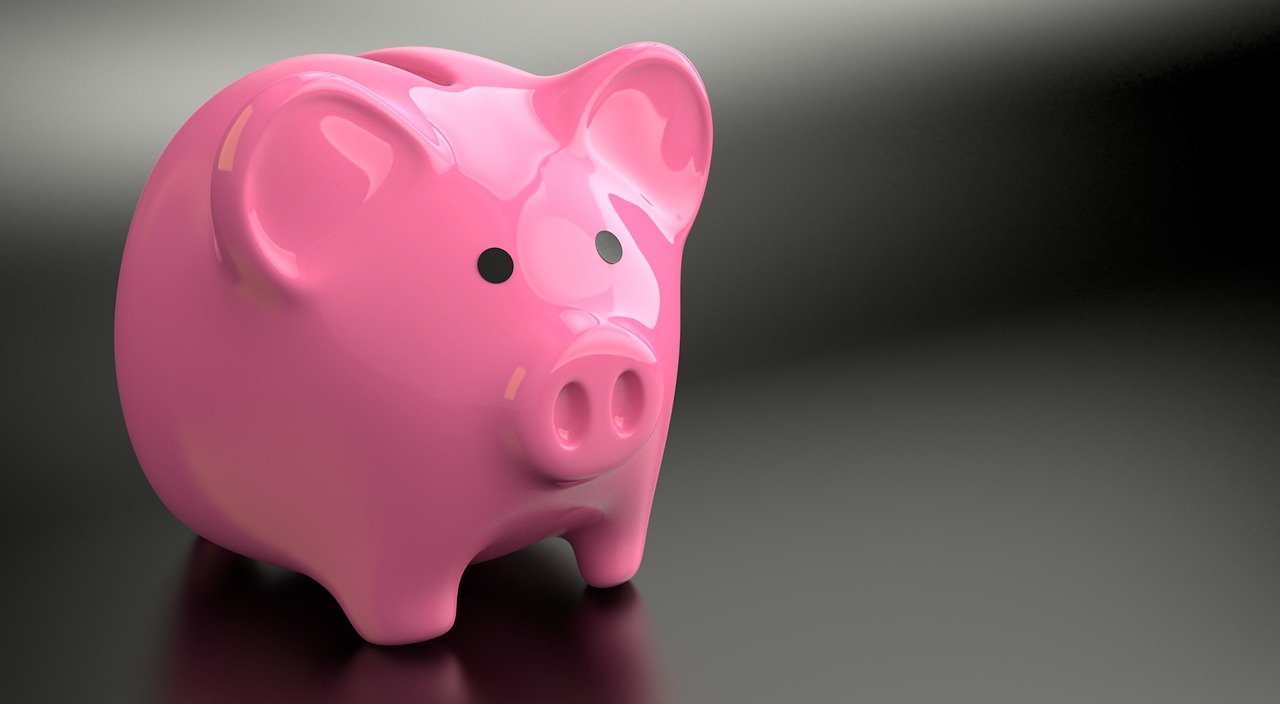
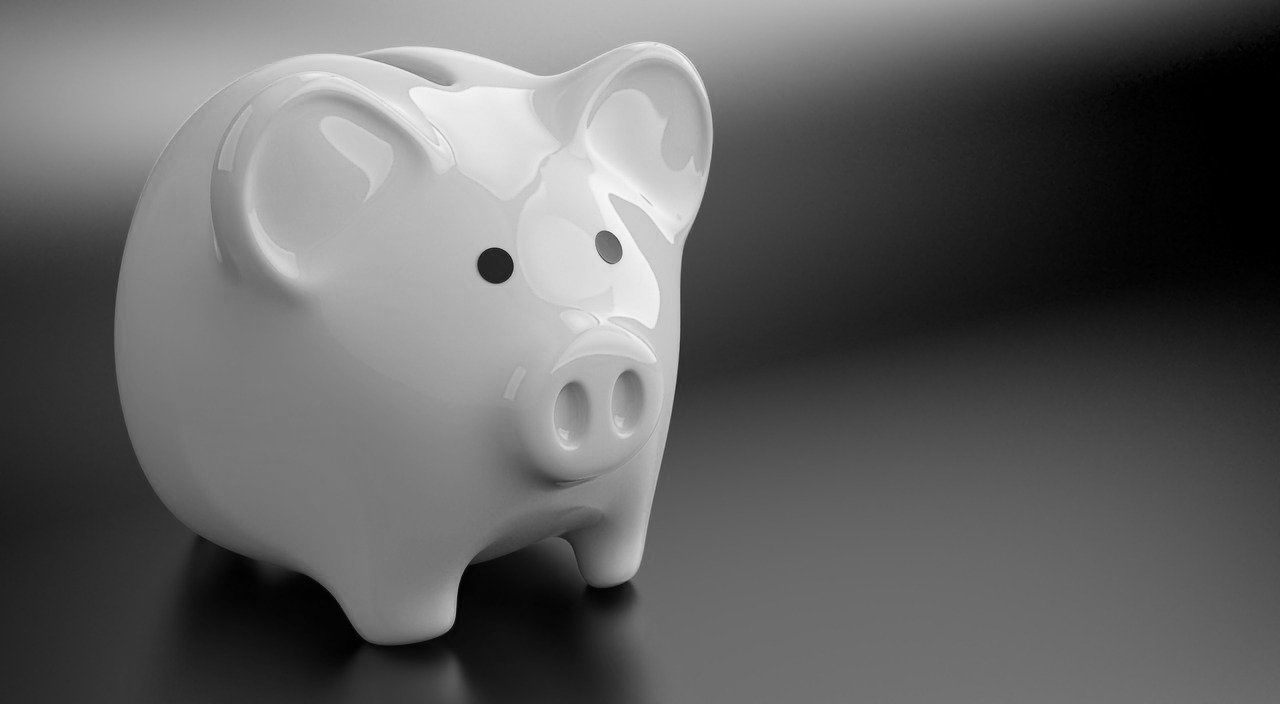
애니메이션 적용 및 사진변경

diff --git a/assets/scss/divide/main.scss b/assets/scss/divide/main.scss
@@ -17,7 +17,7 @@
                 align-items: center;
                 justify-content: center;
                 position: relative;
-                height: vw(500px);
+                height: vw(560px);
                 background: url("../images/main/background.jpg") no-repeat 0 center / 100% auto;
     
                 @include dim(0.2);
@@ -49,6 +49,7 @@
             }
     
             &__we {
+                overflow: hidden;
                 padding-top: vw(100px);
                 text-align: center;
     
@@ -57,6 +58,14 @@
                         display: flex;
                         flex-wrap: wrap;
                         margin-top: vw(20px);
+                        transform: translate(0, -80%);
+                        opacity: 0.3;
+
+                        &.active {
+                            opacity: 1;
+                            transform: translate(0, 0);
+                            transition: all ease-in-out 0.8s;
+                        }
     
                         &__box {
                             position: relative;
@@ -93,7 +102,7 @@
                             margin-bottom: vw(10px);
                             font-family: "roboto";
                             font-weight: bold;
-                            font-size: vw(30px);
+                            font-size: vw(35px);
                         }
     
                         &__name {
@@ -180,7 +189,7 @@
     
                             &.active {
                                 transform: translate(0, 0);
-                                transition: all ease-in-out 0.8s;
+                                transition: all ease-in-out 1.2s;
                             }
                         }
     
@@ -258,6 +267,7 @@
             }
     
             &__we {
+                overflow: hidden;
                 padding-top: 60px;
                 text-align: center;
     
@@ -266,6 +276,14 @@
                         display: flex;
                         flex-wrap: wrap;
                         margin-top: 20px;
+                        transform: translate(0, -30%);
+                        opacity: 0.3;
+
+                        &.active {
+                            opacity: 1;
+                            transform: translate(0, 0);
+                            transition: all ease-in-out 0.8s;
+                        }
     
                         &__box {
                             position: relative;
@@ -390,7 +408,7 @@
     
                             &.active {
                                 transform: translate(0, 0);
-                                transition: all ease-in-out 0.8s;
+                                transition: all ease-in-out 1s;
                             }
                         }
     

diff --git a/pages/index.vue b/pages/index.vue
@@ -12,7 +12,7 @@
 
         <section class="fb__main__we">
             <h3 class="fb__main__title">WHO WE ARE</h3>
-            <ul class="we__detail">
+            <ul class="we__detail js__we__detail">
                 <li class="we__detail__box">
                     <em class="we__detail__count">{{count1.from}}</em>
                     <span class="we__detail__name">연차+</span>
@@ -103,6 +103,9 @@ export default {
     },
 
     mounted() {
+        const $we = $(".js__we__detail");
+        $we.fadeIn("slow").addClass("active");
+
         setTimeout(this.countPlus, 100);
         setTimeout(this.countPlus2, 100);
         setTimeout(this.countPlus3, 50);
@@ -111,13 +114,13 @@ export default {
 
     methods: {
         scrollEvent(e) {
+            const $company = $(".company__info__list");
             const _companyOffset = $(".js__menu").offset().top;
             
-            if (window.scrollY >= _companyOffset) {
-                $(".company__info__list").addClass("active");
-            }
-            else {
-              
+            let _current = window.scrollY;
+
+            if (_current >= _companyOffset) {
+                $company.addClass("active");
             }
         },
 
